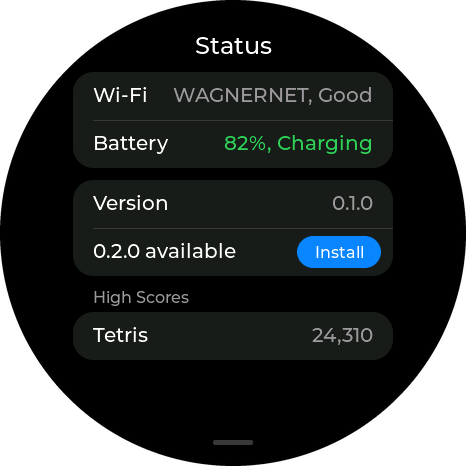
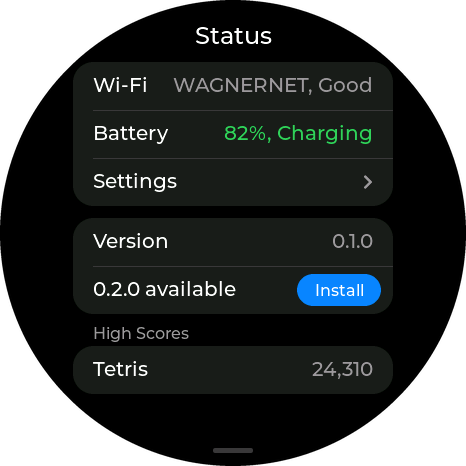
0.1.2: fix OTA (4 KB http buffers for GitHub's long redirect, EOF read loop, visible errors, logged result); Settings row in panel replaces home gear

diff --git a/main/hal/hal_ota.c b/main/hal/hal_ota.c
@@ -37,7 +37,8 @@ static int vcmp(const char *a, const char *b) {
 }
 static bool http_cfg_tls(esp_http_client_config_t *c) {
     c->crt_bundle_attach = esp_crt_bundle_attach; c->timeout_ms = 15000;
-    c->buffer_size = 2048; c->buffer_size_tx = 1024; c->keep_alive_enable = true;
+    c->buffer_size = 4096; c->buffer_size_tx = 4096;   /* GitHub's release-asset redirect URL is ~920 chars */
+    c->max_redirection_count = 6; c->keep_alive_enable = true;
     return true;
 }
 static void do_check(bool from_boot) {
@@ -52,7 +53,8 @@ static void do_check(bool from_boot) {
     esp_http_client_handle_t h = esp_http_client_init(&c);
     char *body = heap_caps_calloc(1, 2048, MALLOC_CAP_SPIRAM);
     int len = -1;
-    if (h && body && esp_http_client_open(h, 0) == ESP_OK) {
+    esp_err_t oe = ESP_FAIL;
+    if (h && body && (oe = esp_http_client_open(h, 0)) == ESP_OK) {
         esp_http_client_fetch_headers(h);
         int code = esp_http_client_get_status_code(h);
         /* follow GitHub's release-asset redirects */
@@ -61,11 +63,15 @@ static void do_check(bool from_boot) {
             if (esp_http_client_open(h, 0) != ESP_OK) break;
             esp_http_client_fetch_headers(h); code = esp_http_client_get_status_code(h);
         }
-        if (code == 200) len = esp_http_client_read_response(h, body, 2047);
-        else ESP_LOGW(TAG, "manifest HTTP %d", code);
+        if (code == 200) {   /* read until EOF: works for chunked and unknown length */
+            len = 0; int r;
+            while (len < 2047 && (r = esp_http_client_read(h, body + len, 2047 - len)) > 0) len += r;
+            if (len == 0) ESP_LOGW(TAG, "manifest: empty body");
+        } else { ESP_LOGW(TAG, "manifest HTTP %d", code); len = -2; }
     }
+    else ESP_LOGW(TAG, "manifest open failed: %s", esp_err_to_name(oe));
     if (h) esp_http_client_cleanup(h);
-    if (len <= 0) { free(body); if (!from_boot) fail("Couldn't reach update server"); else set_state(OTA_IDLE); return; }
+    if (len <= 0) { free(body); fail(len == -2 ? "Server error" : "Couldn't reach update server"); return; }
     body[len] = 0;
     cJSON *j = cJSON_Parse(body); free(body);
     const cJSON *v = j ? cJSON_GetObjectItem(j, "version") : NULL, *u = j ? cJSON_GetObjectItem(j, "url") : NULL;
@@ -79,14 +85,16 @@ static void do_check(bool from_boot) {
     if (vcmp(ver, st.current) > 0 && strcmp(ver, bad) != 0) {
         snprintf(st.available, sizeof st.available, "%s", ver);
         set_state(OTA_AVAILABLE); if (from_boot) st.prompt = true;
-    } else set_state(OTA_UPTODATE);
+        ESP_LOGI(TAG, "check result: update %s available (running %s)", ver, st.current);
+    } else { set_state(OTA_UPTODATE); ESP_LOGI(TAG, "check result: up to date (running %s, latest %s%s)", st.current, ver, strcmp(ver, bad) ? "" : ", skipped: failed before"); }
 }
 static void do_install(void) {
     set_state(OTA_INSTALLING); st.progress = 0;
     esp_http_client_config_t c = { .url = bin_url }; http_cfg_tls(&c);
     esp_https_ota_config_t oc = { .http_config = &c };
     esp_https_ota_handle_t oh = NULL;
-    if (esp_https_ota_begin(&oc, &oh) != ESP_OK) { fail("Download failed"); return; }
+    esp_err_t be = esp_https_ota_begin(&oc, &oh);
+    if (be != ESP_OK) { ESP_LOGW(TAG, "ota begin: %s", esp_err_to_name(be)); fail("Download failed"); return; }
     esp_app_desc_t nd;
     if (esp_https_ota_get_img_desc(oh, &nd) == ESP_OK && strcmp(nd.version, st.available) != 0)
         ESP_LOGW(TAG, "image reports %s, manifest said %s", nd.version, st.available);
@@ -96,7 +104,7 @@ static void do_install(void) {
         int got = esp_https_ota_get_image_len_read(oh);
         if (total > 0) st.progress = got * 100 / total;
     }
-    if (e != ESP_OK || !esp_https_ota_is_complete_data_received(oh)) { esp_https_ota_abort(oh); fail("Download interrupted"); return; }
+    if (e != ESP_OK || !esp_https_ota_is_complete_data_received(oh)) { esp_https_ota_abort(oh); ESP_LOGW(TAG, "ota perform: %s", esp_err_to_name(e)); fail("Download interrupted"); return; }
     if (esp_https_ota_finish(oh) != ESP_OK) { fail("Update didn't verify"); return; }   /* image hash/header checked here */
     int a, b, d; sscanf(st.available, "%d.%d.%d", &a, &b, &d);
     hal_kv_set("ota_try", (a << 16) | (b << 8) | d);   /* remembered in case it fails to boot */

diff --git a/main/ui/app.c b/main/ui/app.c
@@ -4,7 +4,7 @@
 #include "hal.h"
 #include <stdio.h>
 
-static lv_obj_t *gear;
+static lv_obj_t *set_row_card;
 void app_open_settings(void);
 static bool hit(lv_obj_t *o, lv_point_t p, int pad) {
     lv_area_t a; lv_obj_get_coords(o, &a);
@@ -62,7 +62,6 @@ static bool in_icon(lv_point_t p) {
 static void home_cb(g_kind_t k, lv_point_t s, int arg, void *ud) {
     (void)arg; (void)ud;
     if (k == G_TAP && in_icon(s)) app_launch(GAMES[page]);
-    else if (k == G_TAP && hit(gear, s, 8)) app_open_settings();
     else if (k == G_DOWN && s.y < 140) app_open_panel();
     else if (k == G_LEFT && page < GAME_COUNT - 1) { page++; show_page(); }
     else if (k == G_RIGHT && page > 0) { page--; show_page(); }
@@ -101,10 +100,6 @@ static void build_home(void) {
         lv_obj_align(dots[i], LV_ALIGN_CENTER, (i - (n - 1) / 2.0f) * 16, 148);
         if (n < 2) lv_obj_add_flag(dots[i], LV_OBJ_FLAG_HIDDEN);
     }
-    gear = plain(home); lv_obj_set_size(gear, 48, 48); lv_obj_set_style_radius(gear, 24, 0);
-    lv_obj_set_style_bg_opa(gear, LV_OPA_COVER, 0); lv_obj_set_style_bg_color(gear, C_SURFACE2, 0);
-    lv_obj_align(gear, LV_ALIGN_BOTTOM_MID, 0, -26);
-    lv_obj_t *gl = label(gear, F_BODY, C_LABEL, LV_SYMBOL_SETTINGS); lv_obj_center(gl);
     /* full-screen touch surface on top */
     lv_obj_t *touch = plain(home); lv_obj_set_size(touch, SCR, SCR);
     home_g = (gesture_t){ .cb = home_cb };
@@ -139,7 +134,9 @@ static void panel_cb(g_kind_t k, lv_point_t s, int arg, void *ud) {
     (void)arg; (void)ud;
     if (k == G_UP) { close_panel(); return; }
     if (k != G_TAP) return;
-    lv_area_t a; lv_obj_get_coords(upd_card, &a);
+    lv_area_t a; lv_obj_get_coords(set_row_card, &a);
+    if (s.y >= a.y2 - ROW_H && s.y <= a.y2 && s.x >= a.x1 && s.x <= a.x2) { app_open_settings(); return; }
+    lv_obj_get_coords(upd_card, &a);
     bool in_upd_row = s.y >= a.y2 - ROW_H && s.y <= a.y2 && s.x >= a.x1 && s.x <= a.x2; /* whole row is the target */
     if (!in_upd_row) return;
     hal_ota_t o; hal_ota_get(&o);
@@ -150,10 +147,12 @@ static void panel_cb(g_kind_t k, lv_point_t s, int arg, void *ud) {
 static void build_panel(void) {
     panel = plain(lv_layer_top()); lv_obj_set_size(panel, SCR, SCR);
     lv_obj_set_style_bg_opa(panel, LV_OPA_COVER, 0); lv_obj_set_style_bg_color(panel, C_BG, 0);
-    lv_obj_t *t = label(panel, F_HEAD, C_LABEL, "Status"); lv_obj_align(t, LV_ALIGN_TOP_MID, 0, 32);
-    lv_obj_t *c1 = card(panel, 72, 2);
+    lv_obj_t *t = label(panel, F_HEAD, C_LABEL, "Status"); lv_obj_align(t, LV_ALIGN_TOP_MID, 0, 22);
+    lv_obj_t *c1 = card(panel, 62, 3); set_row_card = c1;
     wifi_val = row(c1, 0, "Wi-Fi"); bat_val = row(c1, 1, "Battery"); sig_val = NULL;
-    upd_card = card(panel, 72 + 2 * ROW_H + 12, 2);
+    lv_obj_t *sv = row(c1, 2, "Settings"); lv_label_set_text(sv, LV_SYMBOL_RIGHT); lv_obj_set_style_text_font(sv, F_CAPTION, 0);
+    lv_obj_align(sv, LV_ALIGN_TOP_RIGHT, -20, 2 * ROW_H + 15);
+    upd_card = card(panel, 62 + 3 * ROW_H + 12, 2);
     ver_val = row(upd_card, 0, "Version");
     upd_lbl = label(upd_card, F_BODY, C_BLUE, "Check for Updates");
     lv_obj_align(upd_lbl, LV_ALIGN_TOP_LEFT, 20, ROW_H + 12);
@@ -162,12 +161,12 @@ static void build_panel(void) {
     lv_obj_set_style_bg_color(upd_btn, C_BLUE, 0); lv_obj_align(upd_btn, LV_ALIGN_TOP_RIGHT, -12, ROW_H + 8);
     upd_btn_lbl = label(upd_btn, F_CAPTION, C_LABEL, "Install"); lv_obj_center(upd_btn_lbl);
     lv_obj_add_flag(upd_btn, LV_OBJ_FLAG_HIDDEN);
-    int y3 = 72 + 4 * ROW_H + 24;
+    int y3 = 62 + 5 * ROW_H + 12 + 10;
     lv_obj_t *h = label(panel, F_CAPTION, C_LABEL2, "High Scores"); lv_obj_align(h, LV_ALIGN_TOP_LEFT, (SCR - CARD_W) / 2 + 20, y3);
     int n = GAME_COUNT > 2 ? 2 : GAME_COUNT;
-    lv_obj_t *c2 = card(panel, y3 + 24, n);
+    lv_obj_t *c2 = card(panel, y3 + 22, n);
     for (int i = 0; i < n; i++) hs_val[i] = row(c2, i, GAMES[i]->name);
-    grabber(panel, SCR - 26);
+    grabber(panel, SCR - 18);
     lv_obj_t *touch = plain(panel); lv_obj_set_size(touch, SCR, SCR);
     panel_g = (gesture_t){ .cb = panel_cb }; gesture_attach(touch, &panel_g);
     lv_obj_add_flag(panel, LV_OBJ_FLAG_HIDDEN);

diff --git a/sim/main.c b/sim/main.c
@@ -34,6 +34,6 @@ int main(void) {
     save("raw_tetris.rgb565");
     { void tetris_show_pause(void); tetris_show_pause(); save("raw_pwrmenu.rgb565"); }
     app_power_hint(true); save("raw_power.rgb565"); app_power_hint(false);
-    app_go_home(); app_open_settings(); save("raw_settings.rgb565");
+    app_go_home(); save("raw_home.rgb565"); app_open_settings(); save("raw_settings.rgb565");
     return 0;
 }
